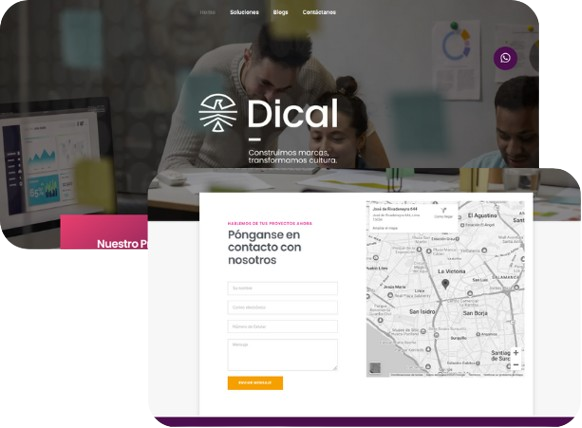
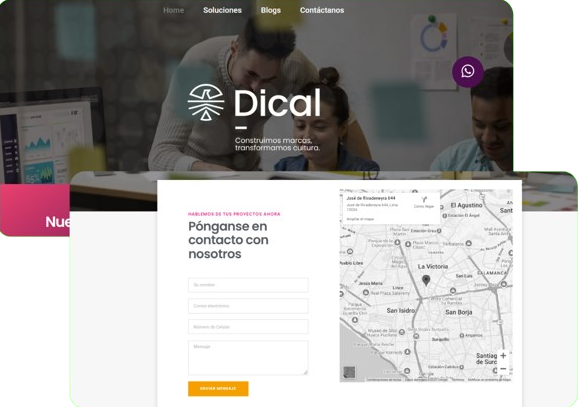
Update of slider on index header

diff --git a/src/Pages/Inicio.jsx b/src/Pages/Inicio.jsx
@@ -5,9 +5,9 @@ import ContactForm from '../Components/Contact/ContactForm'
 
 const navigation = [
   { name: 'Inicio', href: '#' },
-  { name: 'Servicios', href: '#service' },
+  { name: 'Servicios', href: '#services' },
   { name: 'Portafolio', href: '#portafolio' },
-  { name: 'Contactanos', href: '#contactanos' },
+  { name: 'Contactanos', href: '#contact' },
 ]
 
 
@@ -125,34 +125,28 @@ export default function Inicio(){
                 </DialogPanel>
                 </Dialog>
                 <div className="container m-auto">
-                    <div className="flex justify-between items-center mx-auto font-sans h-screen relative">                        
+                    <div className="flex justify-end items-center mx-auto font-sans h-screen relative">                        
                         <img
                             alt="Slider 1"
                             src="/src/assets/slider1.webp"
                             className="h-[80vh] z-0 absolute left-0 right-0 top-1/2 transform -translate-y-1/2 opacity-50 rounded-[25px]"
                         />
-                        <div className="flex-none">
-                        </div>    
-                        <div className="bg-gradient-to-r from-jade to-duck p-[5em] rounded-[25px] text-darknight z-10">
-                            <div className="text-4xl font-extraBold tracking-normal leading-4 text-left">
-                                IMPULSA                            
-                            </div>
-                            <div className="text-8xl font-extraBold tracking-normal text-left">
-                                TU MARCA                            
-                            </div>
-                            <div className="text-md font-regular tracking-normal leading-4 text-right">
-                                NOSOTROS TE AYUDAMOS
-                            </div>
-                            <div className="text-right">
-                                <button className="transitionease-in-out p-1 delay-150 bg-darknight text-duck rounded-[20px] mt-3 px-3 hover:-translate-y-1 hover:scale-105 duration-300">
-                                <span className="flex item-center items-center">Más Info <img alt="Logo" src="/src/assets/logo-pr.svg" className="h-8 w-auto"/></span>
-                                </button>
-                            </div>                        
-                        </div>
-                    </div>  
+                        <div className="rounded-[25px] text-jade z-10">
+                            <div className="lg:text-6xl xl:text-8xl text-4xl font-extraBold tracking-normal leading-2 tracking-tighter text-right">
+                                <p>
+                                    impulsamos<br></br>transformamos<br></br>tu marca
+                                </p>                            
+                            </div> 
+                            <div className="flex justify-end">
+                                <a href="#services" className="transition ease-in-out p-1 delay-150 bg-gradient-to-r from-jade to-duck text-darknight rounded-[20px] mt-3 px-5 hover:-translate-y-1 hover:scale-105 duration-300">
+                                    <span className="flex item-center items-center font-extraBold xl:text-2xl text-xs">Más info<img alt="Logo" src="/src/assets/logo-dark.svg" className="h-6 w-auto"/></span>
+                                </a>
+                            </div>   
+                        </div>  
+                    </div>
                 </div>
             </header>
-            <section className="container m-auto h-screen flex flex-col justify-center items-center z-10" id="service">
+            <section className="container m-auto h-screen flex flex-col justify-center items-center z-10" id="services">
                 <div className="mb-8 xl:h-[10vh]">
                     <ul className="flex flex-wrap -mb-px text-sm justify-center items-center" id="default-tab" data-tabs-toggle="#default-tab-content" role="tablist">
                         <li className="me-4" role="presentation">
@@ -275,8 +269,8 @@ export default function Inicio(){
                                         <img src="/src/assets/img-portafolio1.webp" className="w-[25rem] rounded-lg" alt="..."/>
                                         {/* Texto al costado de la imagen */}
                                         <div className="ml-8 mt-4 md:mt-0 w-80 text-center md:text-right"> {/* Modificado aquí */}
-                                            <h2 className="text-2xl font-bold text-darknight">Servicio de E-commerce</h2>
-                                            <p className="text-darknight">Empresa del rubro de servicio arquitectónico</p>
+                                            <h2 className="text-2xl font-bold text-darknight">Página web & E-commerce</h2>
+                                            <p className="text-darknight">Web que combina una sección informativa sobre arquitectura con una tienda para interiores</p>
                                             <div className="text-center md:text-right">
                                                 <button className="transition ease-in-out p-1 delay-150 bg-darknight text-duck rounded-[20px] mt-3 px-5 hover:-translate-y-1 hover:scale-105 duration-300">
                                                     <span className="flex item-center items-center">lo quiero<img alt="Logo" src="/src/assets/logo-pr.svg" className="h-8 w-auto"/></span>
@@ -295,8 +289,65 @@ export default function Inicio(){
                                         <img src="/src/assets/img-portafolio2.webp" className="w-[25rem] rounded-lg" alt="..."/>
                                         {/* Texto al costado de la imagen */}
                                         <div className="ml-8 mt-4 md:mt-0 w-80 text-center md:text-right"> {/* Modificado aquí */}
-                                            <h2 className="text-2xl font-bold text-darknight">Servicio de diseño y desarrollo web</h2>
-                                            <p className="text-darknight">Agencia de marketing empresarial</p>
+                                            <h2 className="text-2xl font-bold text-darknight">Diseño y desarrollo landing page</h2>
+                                            <p className="text-darknight">Se desarrolló una landing page para una Agencia de capacitación a emprendedores</p>
+                                            <div className="text-center md:text-right">
+                                                <button className="transition ease-in-out p-1 delay-150 bg-darknight text-duck rounded-[20px] mt-3 px-5 hover:-translate-y-1 hover:scale-105 duration-300">
+                                                    <span className="flex items-center">Lo quiero<img alt="Logo" src="/src/assets/logo-pr.svg" className="h-8 w-auto"/></span>
+                                                </button>
+                                            </div> 
+                                        </div>
+                                    </div>
+                                </div>
+                            </div>
+                            {/* Terecer slide */}
+                            <div className="carousel-item duration-700 ease-in-out transform transition-all bg-gradient-to-r from-jade to-duck" data-carousel-item>
+                                <div className="absolute flex w-full justify-center items-center top-1/2 left-1/2 transform -translate-x-1/2 -translate-y-1/2">
+                                    <div className="flex flex-col md:flex-row items-center"> {/* Modificado aquí */}
+                                        {/* Imagen del carrusel */}
+                                        <img src="/src/assets/img-portafolio3.webp" className="w-[25rem] rounded-lg" alt="..."/>
+                                        {/* Texto al costado de la imagen */}
+                                        <div className="ml-8 mt-4 md:mt-0 w-80 text-center md:text-right"> {/* Modificado aquí */}
+                                            <h2 className="text-2xl font-bold text-darknight">Desarrollo web y mailing marketing</h2>
+                                            <p className="text-darknight">Se realizó creación de mailings a medida y gestión de contenido para empresa se seguros</p>
+                                            <div className="text-center md:text-right">
+                                                <button className="transition ease-in-out p-1 delay-150 bg-darknight text-duck rounded-[20px] mt-3 px-5 hover:-translate-y-1 hover:scale-105 duration-300">
+                                                    <span className="flex items-center">Lo quiero<img alt="Logo" src="/src/assets/logo-pr.svg" className="h-8 w-auto"/></span>
+                                                </button>
+                                            </div> 
+                                        </div>
+                                    </div>
+                                </div>
+                            </div>
+                            {/* Cuarto slide */}
+                            <div className="carousel-item duration-700 ease-in-out transform transition-all bg-gradient-to-r from-jade to-duck" data-carousel-item>
+                                <div className="absolute flex w-full justify-center items-center top-1/2 left-1/2 transform -translate-x-1/2 -translate-y-1/2">
+                                    <div className="flex flex-col md:flex-row items-center"> {/* Modificado aquí */}
+                                        {/* Imagen del carrusel */}
+                                        <img src="/src/assets/img-portafolio4.webp" className="w-[25rem] rounded-lg" alt="..."/>
+                                        {/* Texto al costado de la imagen */}
+                                        <div className="ml-8 mt-4 md:mt-0 w-80 text-center md:text-right"> {/* Modificado aquí */}
+                                            <h2 className="text-2xl font-bold text-darknight">Diseño y desarrollo web</h2>
+                                            <p className="text-darknight">Se trabajó en el diseño y desarrollo web para empresa del rubro financiero automovilístico.</p>
+                                            <div className="text-center md:text-right">
+                                                <button className="transition ease-in-out p-1 delay-150 bg-darknight text-duck rounded-[20px] mt-3 px-5 hover:-translate-y-1 hover:scale-105 duration-300">
+                                                    <span className="flex items-center">Lo quiero<img alt="Logo" src="/src/assets/logo-pr.svg" className="h-8 w-auto"/></span>
+                                                </button>
+                                            </div> 
+                                        </div>
+                                    </div>
+                                </div>
+                            </div>
+                            {/* Quinto slide */}
+                            <div className="carousel-item duration-700 ease-in-out transform transition-all bg-gradient-to-r from-jade to-duck" data-carousel-item>
+                                <div className="absolute flex w-full justify-center items-center top-1/2 left-1/2 transform -translate-x-1/2 -translate-y-1/2">
+                                    <div className="flex flex-col md:flex-row items-center"> {/* Modificado aquí */}
+                                        {/* Imagen del carrusel */}
+                                        <img src="/src/assets/img-portafolio5.webp" className="w-[25rem] rounded-lg" alt="..."/>
+                                        {/* Texto al costado de la imagen */}
+                                        <div className="ml-8 mt-4 md:mt-0 w-80 text-center md:text-right"> {/* Modificado aquí */}
+                                            <h2 className="text-2xl font-bold text-darknight">Diseño y desarrollo de multi web</h2>
+                                            <p className="text-darknight">Se realizó una multi web para empresa del rubro legal que ofece capacitaciones y servicios corporativos.</p>
                                             <div className="text-center md:text-right">
                                                 <button className="transition ease-in-out p-1 delay-150 bg-darknight text-duck rounded-[20px] mt-3 px-5 hover:-translate-y-1 hover:scale-105 duration-300">
                                                     <span className="flex items-center">Lo quiero<img alt="Logo" src="/src/assets/logo-pr.svg" className="h-8 w-auto"/></span>
@@ -327,7 +378,7 @@ export default function Inicio(){
             </section>
             <section className="bg-darknight z-10" id="contact">  
                 <div className="container m-auto">
-                    <div className="flex justify-between items-center mx-auto font-sans h-screen relative">  
+                    <div className="flex justify-around items-center mx-auto font-sans h-screen relative">  
                         <img
                             alt="Slider contáctanos"
                             src="/src/assets/slider-contact1.webp"
@@ -342,8 +393,7 @@ export default function Inicio(){
                         </div>
                         <div className="flex z-30">
                             <ContactForm></ContactForm>
-                        </div>
-                                                   
+                        </div>                                                   
                     </div>                    
                 </div>
             </section>

diff --git a/src/Components/Contact/ContactForm.jsx b/src/Components/Contact/ContactForm.jsx
@@ -32,7 +32,7 @@ const ContactForm = () => {
     };
 
     return (
-        <form onSubmit={handleSubmit} className="space-y-4 bg-darknight px-[4rem] py-4 mr-8 rounded-[25px] border-2 border-beige">
+        <form onSubmit={handleSubmit} className="space-y-4 bg-darknight p-[4rem] rounded-[25px] border-2 border-beige">
             <h2 className="text-center xl:text-4xl text-2xl text-beige font-bold">Contáctanos</h2>
             <div className="flex flex-col">
                 <input
